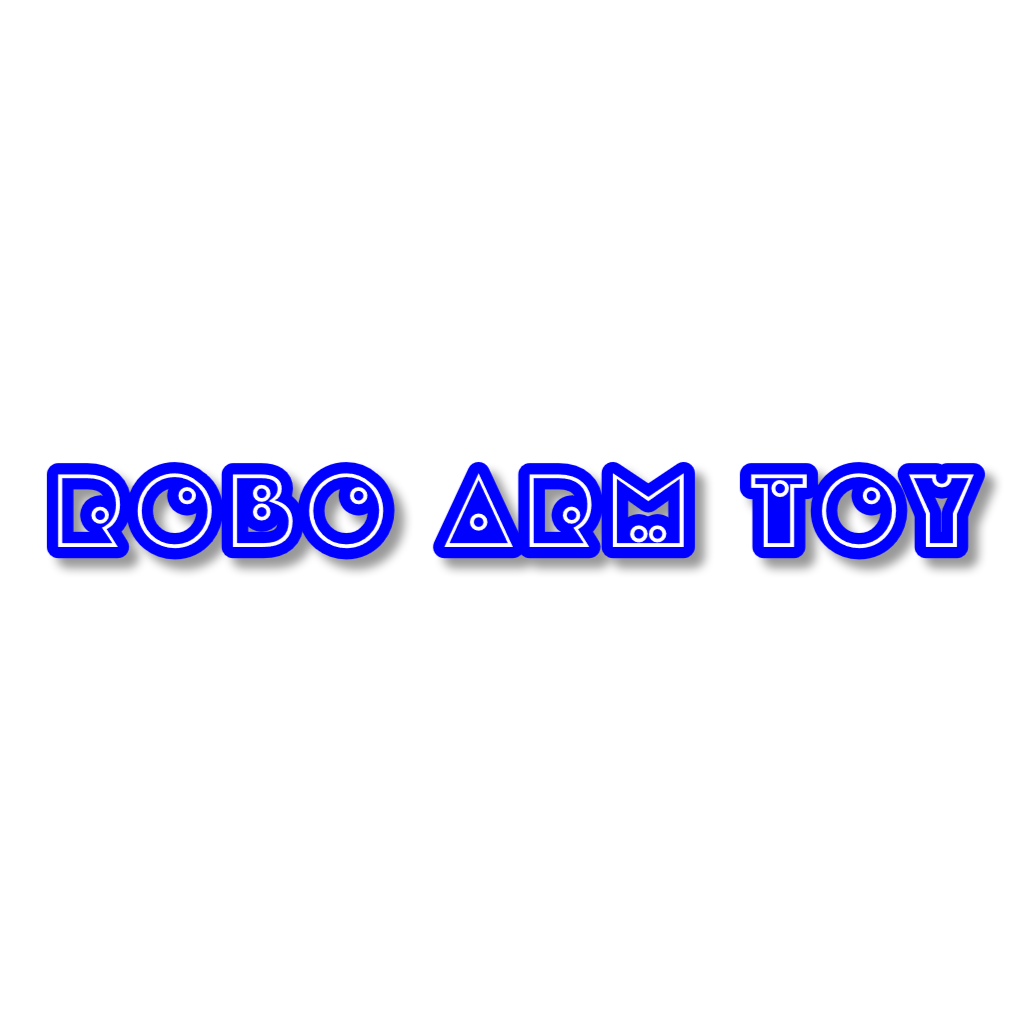
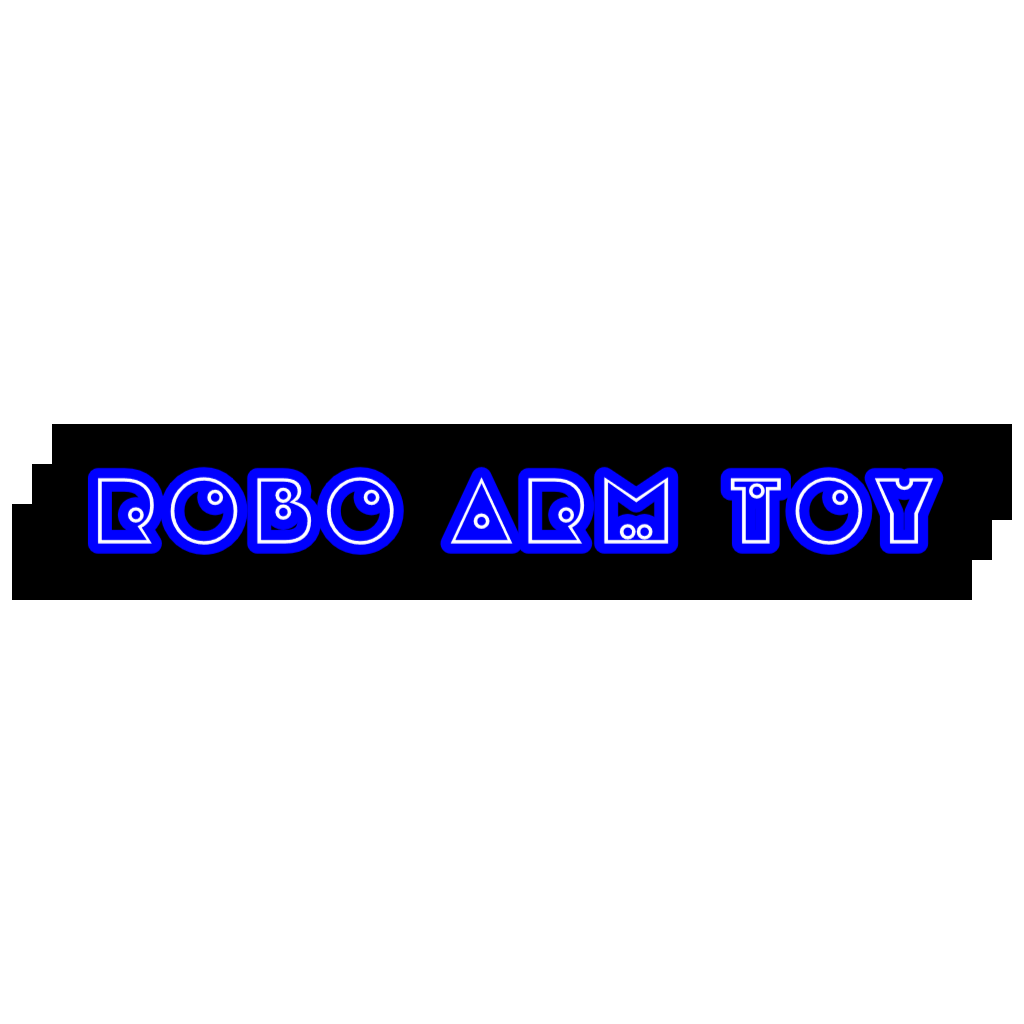
512

Changed region(s): [[0.0, 0.4062, 1.0, 0.5938]]

diff --git a/docs/plicy/baphy/index.js b/docs/plicy/baphy/index.js
@@ -11,11 +11,11 @@ class Misc {
   constructor() {
     this.consoles = [];
     /** 論理幅 */
-    this.logicW = 960;
+    this.logicW = 512;
     /**
      * 論理高さ
      */
-    this.logicH = 540;
+    this.logicH = 512;
 
     this.curveMode = Misc.CURVE_THR;
 
@@ -242,6 +242,7 @@ class Misc {
 
     const engine = new BABYLON.Engine(canvas, {
       preserveDrawingBuffer: true,
+      //antialias: true,
     });
     this.engine = engine;
     const scene = new BABYLON.Scene(engine);
@@ -299,10 +300,11 @@ class Misc {
 
     {
       const tex = new BABYLON.Texture('./res/robotitle1.png');
+      //const tex = new BABYLON.Texture('./res/title1.png');
       tex.hasAlpha = true;
       const plane = BABYLON.MeshBuilder.CreatePlane(
         this.oid('plane'),
-        {width: 0.02, height: 0.02},
+        {width: 0.016, height: 0.016},
         scene,
       );
       plane.rotation = new BABYLON.Vector3(0, 0, 0);
